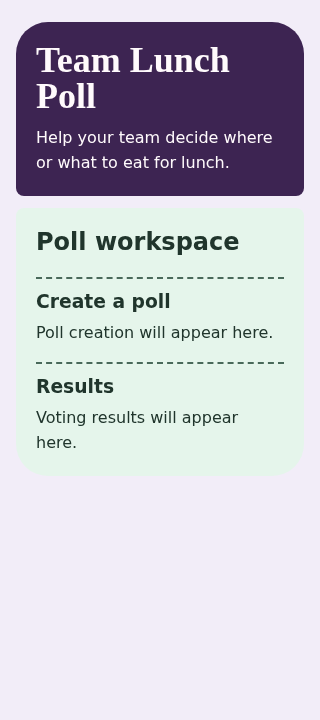
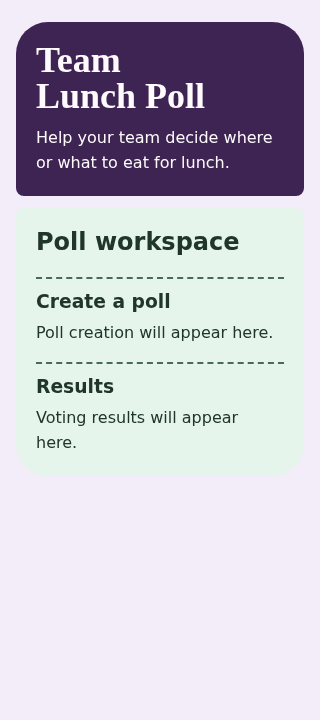
fix: keep poll shell readable with enlarged text

Changed region(s): [[0.1562, 0.0611, 0.7188, 0.1528]]

diff --git a/src/style.css b/src/style.css
@@ -16,6 +16,7 @@ body {
   background: var(--lilac);
   color: var(--ink);
   font: 1rem/1.55 system-ui, sans-serif;
+  overflow-wrap: anywhere;
 }
 
 main {
@@ -28,6 +29,12 @@ header {
   border-radius: 2rem 2rem .5rem .5rem;
   background: var(--plum);
   color: var(--paper);
+}
+
+h1,
+h2,
+h3 {
+  text-wrap: balance;
 }
 
 h1 {

diff --git a/index.html b/index.html
@@ -3,6 +3,7 @@
   <head>
     <meta charset="utf-8">
     <meta name="viewport" content="width=device-width, initial-scale=1">
+    <meta name="theme-color" content="#f2edf8">
     <title>Team Lunch Poll</title>
     <script type="module" src="/src/main.ts"></script>
   </head>
